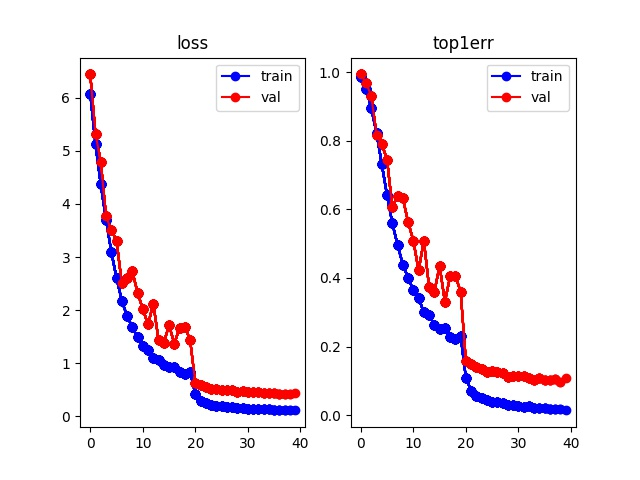
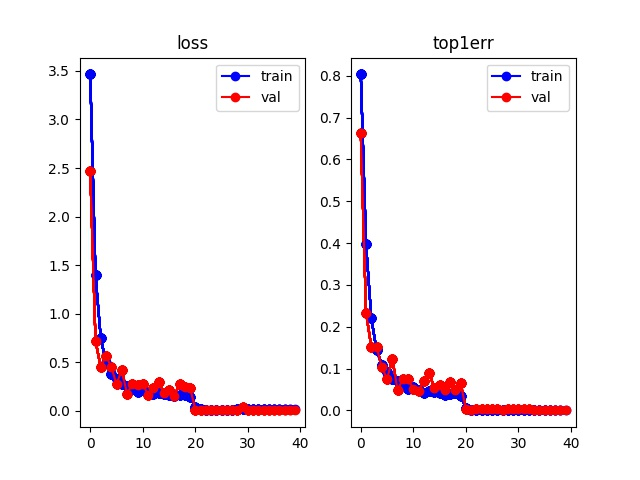
initial commit. vehicle training

diff --git a/deep_sort/deep/train.py b/deep_sort/deep/train.py
@@ -10,6 +10,23 @@ import torchvision
 
 from model import Net
 
+
+def make_weights_for_balanced_classes(images, nclasses):
+    count = [0] * nclasses
+    for item in images:
+        count[item[1]] += 1
+    weight_per_class = [0.] * nclasses
+    N = float(sum(count))
+    for i in range(nclasses):
+        weight_per_class[i] = N/float(count[i])
+    weight = [0] * len(images)
+    for idx, val in enumerate(images):
+        weight[idx] = weight_per_class[val[1]]
+    return weight
+
+
+
+
 parser = argparse.ArgumentParser(description="Train on market1501")
 parser.add_argument("--data-dir",default='data',type=str)
 parser.add_argument("--no-cuda",action="store_true")
@@ -17,6 +34,7 @@ parser.add_argument("--gpu-id",default=0,type=int)
 parser.add_argument("--lr",default=0.1, type=float)
 parser.add_argument("--interval",'-i',default=20,type=int)
 parser.add_argument('--resume', '-r',action='store_true')
+parser.add_argument("--ckpt", type=str, default='ckpt.t7')
 args = parser.parse_args()
 
 # device
@@ -29,7 +47,8 @@ root = args.data_dir
 train_dir = os.path.join(root,"train")
 test_dir = os.path.join(root,"test")
 transform_train = torchvision.transforms.Compose([
-    torchvision.transforms.RandomCrop((128,64),padding=4),
+torchvision.transforms.Resize((128,64)),
+    # torchvision.transforms.RandomCrop((128,64),padding=4),
     torchvision.transforms.RandomHorizontalFlip(),
     torchvision.transforms.ToTensor(),
     torchvision.transforms.Normalize([0.485, 0.456, 0.406], [0.229, 0.224, 0.225])
@@ -39,9 +58,16 @@ transform_test = torchvision.transforms.Compose([
     torchvision.transforms.ToTensor(),
     torchvision.transforms.Normalize([0.485, 0.456, 0.406], [0.229, 0.224, 0.225])
 ])
+
+dataset_train = torchvision.datasets.ImageFolder(train_dir, transform=transform_train)
+weights = make_weights_for_balanced_classes(dataset_train.imgs, len(dataset_train.classes))
+weights = torch.DoubleTensor(weights)
+sampler = torch.utils.data.sampler.WeightedRandomSampler(weights, len(weights))
+
 trainloader = torch.utils.data.DataLoader(
-    torchvision.datasets.ImageFolder(train_dir, transform=transform_train),
-    batch_size=64,shuffle=True
+    dataset_train,
+    sampler=sampler,
+    batch_size=64, pin_memory=True
 )
 testloader = torch.utils.data.DataLoader(
     torchvision.datasets.ImageFolder(test_dir, transform=transform_test),
@@ -53,9 +79,9 @@ num_classes = len(trainloader.dataset.classes)
 start_epoch = 0
 net = Net(num_classes=num_classes)
 if args.resume:
-    assert os.path.isfile("./checkpoint/ckpt.t7"), "Error: no checkpoint file found!"
-    print('Loading from checkpoint/ckpt.t7')
-    checkpoint = torch.load("./checkpoint/ckpt.t7")
+    assert os.path.isfile("./checkpoint/" + args.ckpt), "Error: no checkpoint file found!"
+    print('Loading from {}'.format("./checkpoint/" + args.ckpt))
+    checkpoint = torch.load("./checkpoint/" + args.ckpt)
     # import ipdb; ipdb.set_trace()
     net_dict = checkpoint['net_dict']
     net.load_state_dict(net_dict)
@@ -63,10 +89,12 @@ if args.resume:
     start_epoch = checkpoint['epoch']
 net.to(device)
 
+
 # loss and optimizer
 criterion = torch.nn.CrossEntropyLoss()
 optimizer = torch.optim.SGD(net.parameters(), args.lr, momentum=0.9, weight_decay=5e-4)
 best_acc = 0.
+
 
 # train function for each epoch
 def train(epoch):
@@ -133,7 +161,7 @@ def test(epoch):
     acc = 100.*correct/total
     if acc > best_acc:
         best_acc = acc
-        print("Saving parameters to checkpoint/ckpt.t7")
+        print("Saving parameters to {}".format("./checkpoint/" + args.ckpt))
         checkpoint = {
             'net_dict':net.state_dict(),
             'acc':acc,
@@ -141,7 +169,7 @@ def test(epoch):
         }
         if not os.path.isdir('checkpoint'):
             os.mkdir('checkpoint')
-        torch.save(checkpoint, './checkpoint/ckpt.t7')
+        torch.save(checkpoint, "./checkpoint/" + args.ckpt)
 
     return test_loss/len(testloader), 1.- correct/total
 

diff --git a/deep_sort/deep/model_Vehicles.py b/deep_sort/deep/model_Vehicles.py
@@ -1,0 +1,105 @@
+import torch
+import torch.nn as nn
+import torch.nn.functional as F
+
+class BasicBlock(nn.Module):
+    def __init__(self, c_in, c_out,is_downsample=False):
+        super(BasicBlock,self).__init__()
+        self.is_downsample = is_downsample
+        if is_downsample:
+            self.conv1 = nn.Conv2d(c_in, c_out, 3, stride=2, padding=1, bias=False)
+        else:
+            self.conv1 = nn.Conv2d(c_in, c_out, 3, stride=1, padding=1, bias=False)
+        self.bn1 = nn.BatchNorm2d(c_out)
+        self.relu = nn.ReLU(True)
+        self.conv2 = nn.Conv2d(c_out,c_out,3,stride=1,padding=1, bias=False)
+        self.bn2 = nn.BatchNorm2d(c_out)
+        if is_downsample:
+            self.downsample = nn.Sequential(
+                nn.Conv2d(c_in, c_out, 1, stride=2, bias=False),
+                nn.BatchNorm2d(c_out)
+            )
+        elif c_in != c_out:
+            self.downsample = nn.Sequential(
+                nn.Conv2d(c_in, c_out, 1, stride=1, bias=False),
+                nn.BatchNorm2d(c_out)
+            )
+            self.is_downsample = True
+
+    def forward(self,x):
+        y = self.conv1(x)
+        y = self.bn1(y)
+        y = self.relu(y)
+        y = nn.Dropout()(y)
+        y = self.conv2(y)
+        y = self.bn2(y)
+        if self.is_downsample:
+            x = self.downsample(x)
+        return F.relu(x.add(y),True)
+
+def make_layers(c_in,c_out,repeat_times, is_downsample=False):
+    blocks = []
+    for i in range(repeat_times):
+        if i ==0:
+            blocks += [BasicBlock(c_in,c_out, is_downsample=is_downsample),]
+        else:
+            blocks += [BasicBlock(c_out,c_out),]
+    return nn.Sequential(*blocks)
+
+class Net(nn.Module):
+    def __init__(self, num_classes=751 ,reid=False):
+        super(Net,self).__init__()
+        # 3 128 64
+        self.conv = nn.Sequential(
+            nn.Conv2d(3,64,3,stride=1,padding=1),
+            nn.BatchNorm2d(64),
+            nn.ReLU(inplace=True),
+            # nn.Conv2d(32,32,3,stride=1,padding=1),
+            # nn.BatchNorm2d(32),
+            # nn.ReLU(inplace=True),
+            nn.MaxPool2d(3,(2,4),padding=1),
+        )
+        # 32 64 32
+        self.layer1 = make_layers(64,64,2,False)
+        # 32 64 32
+        self.layer2 = make_layers(64,128,2,True)
+        # 64 32 16
+        self.layer3 = make_layers(128,256,2,True)
+        # 128 16 8
+        self.layer4 = make_layers(256,512,2,True)
+        # 256 8 4
+        self.avgpool = nn.AvgPool2d((8,4),1)
+        # 256 1 1 
+        self.reid = reid
+        self.classifier = nn.Sequential(
+            nn.Linear(512, 256),
+            nn.BatchNorm1d(256),
+            nn.ReLU(inplace=True),
+            nn.Dropout(),
+            nn.Linear(256, num_classes),
+        )
+    
+    def forward(self, x):
+        x = self.conv(x)
+        x = self.layer1(x)
+        x = self.layer2(x)
+        x = self.layer3(x)
+        x = self.layer4(x)
+        x = self.avgpool(x)
+        x = x.view(x.size(0),-1)
+        # B x 128
+        if self.reid:
+            x = x.div(x.norm(p=2,dim=1,keepdim=True))
+            return x
+        # classifier
+        x = self.classifier(x)
+        return x
+
+
+if __name__ == '__main__':
+    net = Net()
+    x = torch.randn(4,3,128,64)
+    y = net(x)
+    import ipdb; ipdb.set_trace()
+
+
